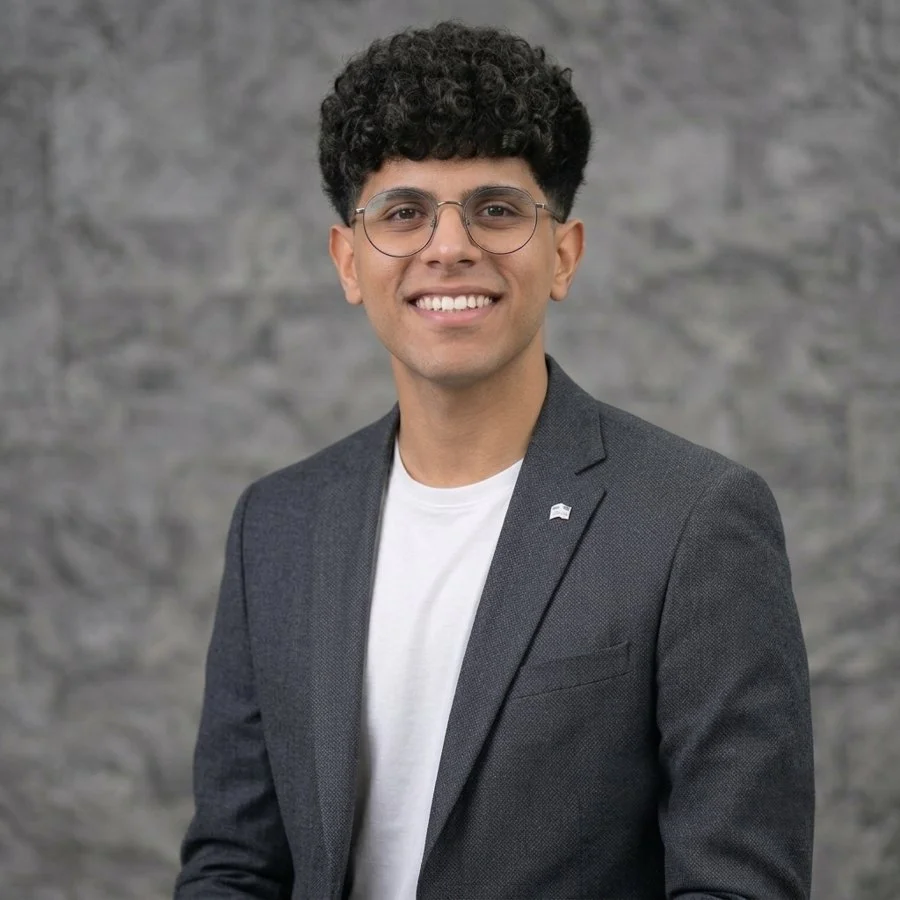
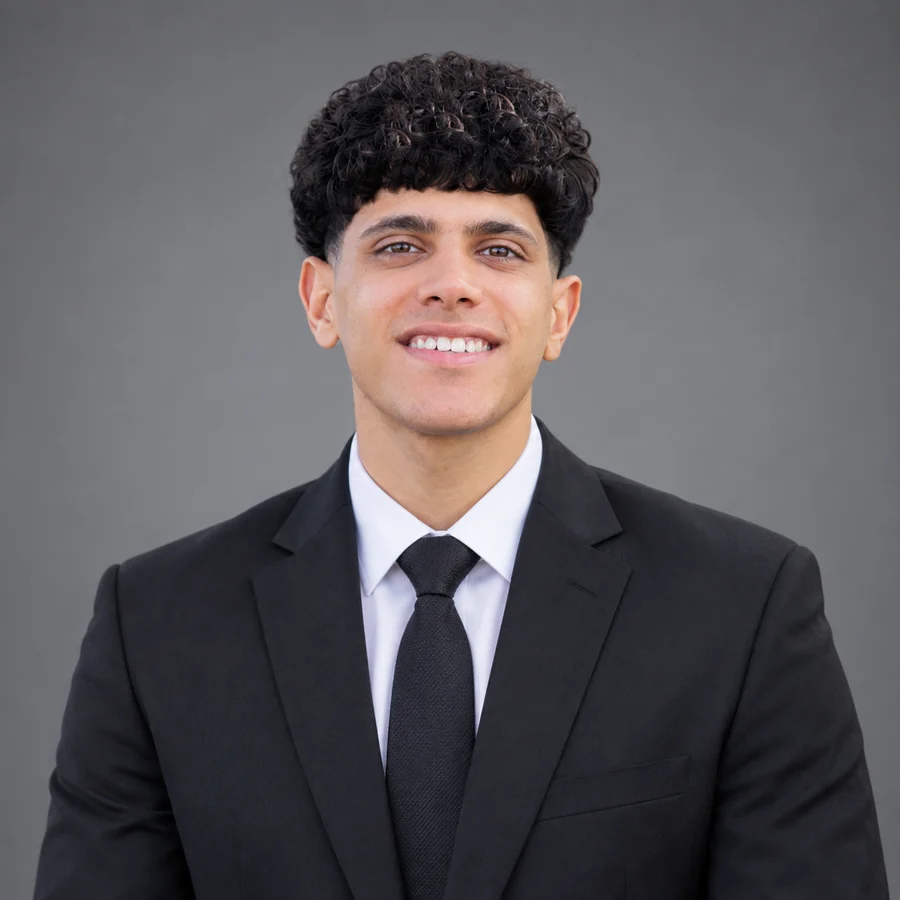
Add files via upload

diff --git a/js/script.js b/js/script.js
@@ -25,6 +25,15 @@ var FORM_ENDPOINT = 'https://formsubmit.co/ajax/aonyadel1@gmail.com';
     close: '<path d="M18 6L6 18M6 6l12 12"/>',
     globe: '<circle cx="12" cy="12" r="10"/><line x1="2" y1="12" x2="22" y2="12"/><path d="M12 2a15.3 15.3 0 0 1 4 10 15.3 15.3 0 0 1-4 10 15.3 15.3 0 0 1-4-10 15.3 15.3 0 0 1 4-10z"/>',
     github: '<path d="M9 19c-5 1.5-5-2.5-7-3m14 6v-3.87a3.37 3.37 0 0 0-.94-2.61c3.14-.35 6.44-1.54 6.44-7A5.44 5.44 0 0 0 20 4.77 5.07 5.07 0 0 0 19.91 1S18.73.65 16 2.48a13.38 13.38 0 0 0-7 0C6.27.65 5.09 1 5.09 1A5.07 5.07 0 0 0 5 4.77a5.44 5.44 0 0 0-1.5 3.78c0 5.42 3.3 6.61 6.44 7A3.37 3.37 0 0 0 9 18.13V22"/>',
+    message: '<path d="M21 11.5a8.38 8.38 0 0 1-.9 3.8 8.5 8.5 0 0 1-7.6 4.7 8.38 8.38 0 0 1-3.8-.9L3 21l1.9-5.7a8.38 8.38 0 0 1-.9-3.8 8.5 8.5 0 0 1 4.7-7.6 8.38 8.38 0 0 1 3.8-.9h.5a8.48 8.48 0 0 1 8 8v.5z"/>',
+    clock: '<circle cx="12" cy="12" r="10"/><polyline points="12 6 12 12 16 14"/>',
+    flag: '<path d="M4 15s1-1 4-1 5 2 8 2 4-1 4-1V3s-1 1-4 1-5-2-8-2-4 1-4 1z"/><line x1="4" y1="22" x2="4" y2="15"/>',
+    shield: '<path d="M12 22s8-4 8-10V5l-8-3-8 3v7c0 6 8 10 8 10z"/>',
+    briefcase: '<rect x="2" y="7" width="20" height="14" rx="2"/><path d="M16 21V5a2 2 0 0 0-2-2h-4a2 2 0 0 0-2 2v16"/>',
+    refresh: '<polyline points="23 4 23 10 17 10"/><polyline points="1 20 1 14 7 14"/><path d="M3.51 9a9 9 0 0 1 14.85-3.36L23 10M1 14l4.64 4.36A9 9 0 0 0 20.49 15"/>',
+    trend: '<polyline points="23 6 13.5 15.5 8.5 10.5 1 18"/><polyline points="17 6 23 6 23 12"/>',
+    star: '<polygon points="12 2 15.09 8.26 22 9.27 17 14.14 18.18 21.02 12 17.77 5.82 21.02 7 14.14 2 9.27 8.91 8.26 12 2"/>',
+    check: '<path d="M22 11.08V12a10 10 0 1 1-5.93-9.14"/><polyline points="22 4 12 14.01 9 11.01"/>',
     file: '<path d="M14 2H6a2 2 0 0 0-2 2v16a2 2 0 0 0 2 2h12a2 2 0 0 0 2-2V8z"/><polyline points="14 2 14 8 20 8"/>',
     grid: '<rect x="3" y="3" width="18" height="18" rx="2"/><path d="M3 9h18M3 15h18M9 3v18M15 3v18"/>',
     monitor: '<rect x="2" y="3" width="20" height="14" rx="2"/><path d="M8 21h8M12 17v4"/>',
@@ -57,14 +66,9 @@ var FORM_ENDPOINT = 'https://formsubmit.co/ajax/aonyadel1@gmail.com';
     icon(themeBtn.querySelector('svg'), t === 'dark' ? 'sun' : 'moon');
     themeBtn.setAttribute('aria-label', t === 'dark' ? 'Switch to light mode' : 'Switch to dark mode');
   }
-  setTheme(root.dataset.theme || 'light', false);
+  setTheme(root.dataset.theme || 'dark', false);
   themeBtn.addEventListener('click', function () {
     setTheme(root.dataset.theme === 'dark' ? 'light' : 'dark', true);
-  });
-  matchMedia('(prefers-color-scheme: dark)').addEventListener('change', function (e) {
-    var saved = null;
-    try { saved = localStorage.getItem('theme'); } catch (err) {}
-    if (!saved) setTheme(e.matches ? 'dark' : 'light', false);
   });
 
   // ----- Mobile menu -----
@@ -90,11 +94,11 @@ var FORM_ENDPOINT = 'https://formsubmit.co/ajax/aonyadel1@gmail.com';
       if (location.protocol === 'file:') {
         location.href = 'mailto:aonyadel1@gmail.com?subject=' + encodeURIComponent('Portfolio message from ' + d.get('name')) +
           '&body=' + encodeURIComponent('Name: ' + d.get('name') + '\nEmail: ' + d.get('email') + '\n\n' + d.get('message'));
-        status.textContent = 'Opening your email app. The form sends directly once the site is online.';
+        status.textContent = 'جارٍ فتح تطبيق البريد. يعمل النموذج مباشرة بعد نشر الموقع.';
         return;
       }
       btn.disabled = true;
-      status.textContent = 'Sending...';
+      status.textContent = 'جارٍ إرسال رسالتك...';
       fetch(FORM_ENDPOINT, { method: 'POST', body: d, headers: { Accept: 'application/json' } })
         .then(function (r) {
           return r.json().catch(function () { return {}; }).then(function (res) {
@@ -103,10 +107,10 @@ var FORM_ENDPOINT = 'https://formsubmit.co/ajax/aonyadel1@gmail.com';
         })
         .then(function () {
           form.reset();
-          status.textContent = 'Thank you! Your message has been sent.';
+          status.textContent = 'شكراً لك! تم إرسال رسالتك بنجاح، وسأرد عليك في أقرب وقت.';
         })
         .catch(function () {
-          status.textContent = 'The message could not be sent. Please email me directly at aonyadel1@gmail.com.';
+          status.textContent = 'تعذّر إرسال الرسالة. من فضلك راسلني مباشرة على aonyadel1@gmail.com.';
         })
         .then(function () { btn.disabled = false; });
     });
@@ -160,7 +164,7 @@ var FORM_ENDPOINT = 'https://formsubmit.co/ajax/aonyadel1@gmail.com';
         setTimeout(function () { el.classList.remove('reveal', 'in'); el.style.transitionDelay = ''; }, 900);
       });
     }, { threshold: 0.12 });
-    document.querySelectorAll('.card,.skill,.project,.filters,.section>h2').forEach(function (el) {
+    document.querySelectorAll('.card,.skill,.soft-card,.project,.filters,.section>h2').forEach(function (el) {
       el.classList.add('reveal'); io.observe(el);
     });
   }

diff --git a/skills.html b/skills.html
@@ -15,7 +15,7 @@
 <link rel="preconnect" href="https://fonts.googleapis.com"><link rel="preconnect" href="https://fonts.gstatic.com" crossorigin>
 <link href="https://fonts.googleapis.com/css2?family=Poppins:wght@400;500;600;700;800&display=swap" rel="stylesheet">
 <link rel="stylesheet" href="css/style.css">
-<script>var d=document.documentElement,t=null;try{t=localStorage.getItem('theme')}catch(e){}d.dataset.theme=t||(matchMedia('(prefers-color-scheme: dark)').matches?'dark':'light');try{if(!sessionStorage.getItem('intro'))d.classList.add('intro')}catch(e){}</script>
+<script>var d=document.documentElement,t=null;try{t=localStorage.getItem('theme')}catch(e){}d.dataset.theme=t||'dark';try{if(!sessionStorage.getItem('intro'))d.classList.add('intro')}catch(e){}</script>
 </head>
 <body>
 <div class="splash" aria-hidden="true"><div class="splash-in"><div class="splash-logo"><i class="rip"></i><i class="rip r2"></i><span>AA</span></div><p class="splash-name"><span style="--i:0">A</span><span style="--i:1">o</span><span style="--i:2">n</span><span style="--i:3">y</span><span class="sp"></span><span style="--i:5">A</span><span style="--i:6">d</span><span style="--i:7">e</span><span style="--i:8">l</span></p><p class="splash-sub">Business Information Systems Student</p><div class="splash-bar"><i id="bar"></i></div><p class="splash-pct"><b id="pct">0</b>%</p></div><p class="splash-foot">Assiut, Egypt</p></div>
@@ -46,15 +46,19 @@
 <li class="skill"><div class="ico"><svg data-icon="monitor"></svg></div><div><span class="name">Microsoft PowerPoint</span></div></li>
 <li class="skill"><div class="ico"><svg data-icon="github"></svg></div><div><span class="name">GitHub Pages</span></div></li>
 </ul></section>
-<section class="container section" style="padding-top:24px"><h2>Currently learning</h2><ul class="skills">
-<li class="skill"><div class="ico"><svg data-icon="book"></svg></div><div><span class="name">React.js</span><small>In progress</small></div></li>
+<section class="container section" style="padding-top:24px"><h2>Libraries</h2><ul class="skills">
+<li class="skill"><div class="ico"><svg data-icon="book"></svg></div><div><span class="name">React.js</span></div></li>
 </ul></section>
 <section class="container section" style="padding-top:24px"><h2>Working skills</h2><ul class="skills">
 <li class="skill"><div class="ico"><svg data-icon="target"></svg></div><div><span class="name">Logical Problem Solving</span></div></li>
 <li class="skill"><div class="ico"><svg data-icon="chart"></svg></div><div><span class="name">Technology-based Presentations</span></div></li>
 </ul></section>
 <section class="container section"><h2>Soft skills</h2>
-<div class="chips"><span class="chip">Communication</span><span class="chip">Teamwork</span><span class="chip">Time Management</span><span class="chip">Responsibility</span><span class="chip">Adaptability</span><span class="chip">Quick Learning</span><span class="chip">Leadership</span><span class="chip">Self-Confidence</span><span class="chip">Professional Behavior</span><span class="chip">Commitment</span></div></section>
+<div class="soft">
+<article class="soft-card" style="--c:var(--c2)"><h3>Interpersonal</h3><ul><li><span class="ico"><svg data-icon="message"></svg></span>Communication</li><li><span class="ico"><svg data-icon="users"></svg></span>Teamwork</li><li><span class="ico"><svg data-icon="flag"></svg></span>Leadership</li></ul></article>
+<article class="soft-card" style="--c:var(--c3)"><h3>Work ethic</h3><ul><li><span class="ico"><svg data-icon="shield"></svg></span>Responsibility</li><li><span class="ico"><svg data-icon="check"></svg></span>Commitment</li><li><span class="ico"><svg data-icon="clock"></svg></span>Time Management</li><li><span class="ico"><svg data-icon="briefcase"></svg></span>Professional Behavior</li></ul></article>
+<article class="soft-card" style="--c:var(--c4)"><h3>Personal growth</h3><ul><li><span class="ico"><svg data-icon="refresh"></svg></span>Adaptability</li><li><span class="ico"><svg data-icon="trend"></svg></span>Quick Learning</li><li><span class="ico"><svg data-icon="star"></svg></span>Self-Confidence</li></ul></article>
+</div></section>
 </main>
 <footer class="site-footer"><div class="container">&copy; 2026 Aony Adel. Business Information Systems student, Assiut, Egypt.</div></footer>
 <script src="js/script.js"></script>

diff --git a/index.html b/index.html
@@ -15,7 +15,7 @@
 <link rel="preconnect" href="https://fonts.googleapis.com"><link rel="preconnect" href="https://fonts.gstatic.com" crossorigin>
 <link href="https://fonts.googleapis.com/css2?family=Poppins:wght@400;500;600;700;800&display=swap" rel="stylesheet">
 <link rel="stylesheet" href="css/style.css">
-<script>var d=document.documentElement,t=null;try{t=localStorage.getItem('theme')}catch(e){}d.dataset.theme=t||(matchMedia('(prefers-color-scheme: dark)').matches?'dark':'light');try{if(!sessionStorage.getItem('intro'))d.classList.add('intro')}catch(e){}</script>
+<script>var d=document.documentElement,t=null;try{t=localStorage.getItem('theme')}catch(e){}d.dataset.theme=t||'dark';try{if(!sessionStorage.getItem('intro'))d.classList.add('intro')}catch(e){}</script>
 </head>
 <body>
 <div class="splash" aria-hidden="true"><div class="splash-in"><div class="splash-logo"><i class="rip"></i><i class="rip r2"></i><span>AA</span></div><p class="splash-name"><span style="--i:0">A</span><span style="--i:1">o</span><span style="--i:2">n</span><span style="--i:3">y</span><span class="sp"></span><span style="--i:5">A</span><span style="--i:6">d</span><span style="--i:7">e</span><span style="--i:8">l</span></p><p class="splash-sub">Business Information Systems Student</p><div class="splash-bar"><i id="bar"></i></div><p class="splash-pct"><b id="pct">0</b>%</p></div><p class="splash-foot">Assiut, Egypt</p></div>
@@ -31,7 +31,7 @@
 <div>
 <h1 aria-label="Hello, I am Aony Adel"><span class="hello">Hello, I am</span><span class="typed" id="typed">Aony Adel</span></h1>
 <p class="role">Full Stack Developer</p>
-<p class="lead">A Business Information Systems student from Assiut, Egypt. I build responsive websites with HTML, CSS and JavaScript, and I'm learning back-end fundamentals and data analysis.</p>
+<p class="lead">A Business Information Systems student from Assiut, Egypt. I build responsive websites with HTML, CSS and JavaScript, with an interest in back-end development and data analysis.</p>
 <blockquote class="quote">&ldquo;Learning and consistency are the keys to success.&rdquo;</blockquote>
 <div class="actions"><a class="btn btn-primary" href="goals.html">See my goals</a><a class="btn btn-ghost" href="contact.html">Get in touch</a></div>
 </div>
@@ -71,15 +71,6 @@
 </div>
 </section>
 
-<section class="container section split">
-<h2>Beyond the classroom</h2>
-<div>
-<p>Chess taught me to think a few moves ahead, and I try to bring that habit to how I study and solve problems.</p>
-<div class="chips"><span class="chip">Chess and strategic thinking</span><span class="chip">Following sports</span><span class="chip">Reading leadership articles</span><span class="chip">Self-development</span></div>
-<p style="margin-top:26px">Areas I want to explore further:</p>
-<div class="chips"><span class="chip">Financial and administrative sciences</span><span class="chip">Data analysis</span><span class="chip">Strategic analysis</span><span class="chip">Front-end development</span><span class="chip">Back-end development</span></div>
-</div>
-</section>
 </main>
 <footer class="site-footer"><div class="container">&copy; 2026 Aony Adel. Business Information Systems student, Assiut, Egypt.</div></footer>
 <script src="js/script.js"></script>

diff --git a/projects.html b/projects.html
@@ -15,7 +15,7 @@
 <link rel="preconnect" href="https://fonts.googleapis.com"><link rel="preconnect" href="https://fonts.gstatic.com" crossorigin>
 <link href="https://fonts.googleapis.com/css2?family=Poppins:wght@400;500;600;700;800&display=swap" rel="stylesheet">
 <link rel="stylesheet" href="css/style.css">
-<script>var d=document.documentElement,t=null;try{t=localStorage.getItem('theme')}catch(e){}d.dataset.theme=t||(matchMedia('(prefers-color-scheme: dark)').matches?'dark':'light');try{if(!sessionStorage.getItem('intro'))d.classList.add('intro')}catch(e){}</script>
+<script>var d=document.documentElement,t=null;try{t=localStorage.getItem('theme')}catch(e){}d.dataset.theme=t||'dark';try{if(!sessionStorage.getItem('intro'))d.classList.add('intro')}catch(e){}</script>
 </head>
 <body>
 <div class="splash" aria-hidden="true"><div class="splash-in"><div class="splash-logo"><i class="rip"></i><i class="rip r2"></i><span>AA</span></div><p class="splash-name"><span style="--i:0">A</span><span style="--i:1">o</span><span style="--i:2">n</span><span style="--i:3">y</span><span class="sp"></span><span style="--i:5">A</span><span style="--i:6">d</span><span style="--i:7">e</span><span style="--i:8">l</span></p><p class="splash-sub">Business Information Systems Student</p><div class="splash-bar"><i id="bar"></i></div><p class="splash-pct"><b id="pct">0</b>%</p></div><p class="splash-foot">Assiut, Egypt</p></div>
@@ -29,7 +29,6 @@
 <main class="orbs">
 <section class="container page-head">
 <h1>Projects</h1>
-<p class="lead">Things I've built while learning. More projects will be added as I grow.</p>
 </section>
 <section class="container section" style="padding-top:8px">
 <div class="filters" role="group" aria-label="Filter projects">
@@ -45,11 +44,7 @@
 <div class="mock-base"></div>
 </div>
 <h3>Aony Adel - Personal Portfolio</h3>
-<p>A personal website showcasing my skills, experience, and software projects, designed to present my professional identity and facilitate communication with clients and recruiters.</p>
-<dl class="facts">
-<div><dt>The problem</dt><dd>I needed one clear place to present my skills, goals and courses to recruiters and clients.</dd></div>
-<div><dt>My role</dt><dd>Planned the content and structure, designed the interface, and built every page with HTML, CSS and JavaScript.</dd></div>
-</dl>
+<p>A personal website showcasing my skills and projects, built to present my professional identity to clients and recruiters.</p>
 <div class="chips tech"><span class="chip">HTML5</span><span class="chip">CSS3</span><span class="chip">JavaScript</span></div>
 <div class="actions">
 <a class="btn btn-primary" href="https://aonyadel1-gif.github.io/portfolio-Aony-Adel-Fahim/" target="_blank" rel="noopener noreferrer"><svg data-icon="globe"></svg>Live Demo</a>

diff --git a/contact.html b/contact.html
@@ -15,7 +15,7 @@
 <link rel="preconnect" href="https://fonts.googleapis.com"><link rel="preconnect" href="https://fonts.gstatic.com" crossorigin>
 <link href="https://fonts.googleapis.com/css2?family=Poppins:wght@400;500;600;700;800&display=swap" rel="stylesheet">
 <link rel="stylesheet" href="css/style.css">
-<script>var d=document.documentElement,t=null;try{t=localStorage.getItem('theme')}catch(e){}d.dataset.theme=t||(matchMedia('(prefers-color-scheme: dark)').matches?'dark':'light');try{if(!sessionStorage.getItem('intro'))d.classList.add('intro')}catch(e){}</script>
+<script>var d=document.documentElement,t=null;try{t=localStorage.getItem('theme')}catch(e){}d.dataset.theme=t||'dark';try{if(!sessionStorage.getItem('intro'))d.classList.add('intro')}catch(e){}</script>
 </head>
 <body>
 <div class="splash" aria-hidden="true"><div class="splash-in"><div class="splash-logo"><i class="rip"></i><i class="rip r2"></i><span>AA</span></div><p class="splash-name"><span style="--i:0">A</span><span style="--i:1">o</span><span style="--i:2">n</span><span style="--i:3">y</span><span class="sp"></span><span style="--i:5">A</span><span style="--i:6">d</span><span style="--i:7">e</span><span style="--i:8">l</span></p><p class="splash-sub">Business Information Systems Student</p><div class="splash-bar"><i id="bar"></i></div><p class="splash-pct"><b id="pct">0</b>%</p></div><p class="splash-foot">Assiut, Egypt</p></div>
@@ -49,7 +49,7 @@
 <label for="message">Message</label><textarea id="message" name="message" required></textarea>
 <input type="hidden" name="_captcha" value="false"><input type="hidden" name="_template" value="table"><input type="hidden" name="_subject" value="New message from your portfolio"><input type="text" name="_honey" tabindex="-1" autocomplete="off" style="display:none" aria-hidden="true">
 <button class="btn btn-primary" type="submit">Send Message</button>
-<p id="form-status" role="status" aria-live="polite"></p>
+<p id="form-status" dir="auto" role="status" aria-live="polite"></p>
 </form>
 </section>
 <section class="container section" style="padding-top:0">

diff --git a/css/style.css b/css/style.css
@@ -369,3 +369,26 @@ html:not(.intro) .page-head h1::after,html.intro-out .page-head h1::after{animat
 .page-head::after{animation:float 5s ease-in-out infinite}
 .orbs::before{animation:float 9s ease-in-out infinite}
 .orbs::after{animation:float 11s -4s ease-in-out infinite}
+
+/* ===== Soft skills ===== */
+.soft{display:grid;gap:20px;margin-top:20px;grid-template-columns:repeat(auto-fit,minmax(min(100%,290px),1fr))}
+.soft-card{position:relative;padding:26px 22px 20px;border-radius:20px;background:color-mix(in srgb,var(--surface) 60%,transparent);-webkit-backdrop-filter:blur(14px);backdrop-filter:blur(14px);border:1px solid color-mix(in srgb,var(--c) 35%,var(--line));box-shadow:var(--shadow);transition:transform .3s,box-shadow .3s}
+.soft-card::after{content:"";position:absolute;left:24px;right:24px;top:0;height:3px;border-radius:0 0 4px 4px;background:var(--c)}
+.soft-card:hover{transform:translateY(-6px);box-shadow:0 16px 40px color-mix(in srgb,var(--c) 26%,transparent)}
+.soft-card h3{margin-bottom:14px;color:var(--c)}
+.soft-card ul{list-style:none;padding:0;display:grid;gap:6px}
+.soft-card li{display:flex;align-items:center;gap:12px;padding:9px 10px;border-radius:12px;font-weight:600;transition:background .2s,transform .2s}
+.soft-card li:hover{background:color-mix(in srgb,var(--c) 13%,transparent);transform:translateX(4px)}
+.soft-card .ico{flex:none;width:38px;height:38px;margin:0;border-radius:50%}
+.soft-card .ico svg{width:18px;height:18px}
+
+/* ===== Projects: compact card ===== */
+.projects{grid-template-columns:repeat(auto-fill,minmax(min(100%,270px),310px))}
+.project{padding:14px;border-radius:18px}
+.project h3{margin-top:14px;font-size:1.05rem}
+.project p{margin-top:6px;font-size:.88rem}
+.project .tech{margin:10px 0 14px}
+.project .tech .chip{padding:4px 10px;font-size:.78rem}
+.project .actions{gap:8px}
+.project .actions .btn{flex:1;justify-content:center;padding:9px 12px;min-height:42px;font-size:.88rem}
+.project .actions .btn svg{width:1.05em;height:1.05em}

diff --git a/courses.html b/courses.html
@@ -15,7 +15,7 @@
 <link rel="preconnect" href="https://fonts.googleapis.com"><link rel="preconnect" href="https://fonts.gstatic.com" crossorigin>
 <link href="https://fonts.googleapis.com/css2?family=Poppins:wght@400;500;600;700;800&display=swap" rel="stylesheet">
 <link rel="stylesheet" href="css/style.css">
-<script>var d=document.documentElement,t=null;try{t=localStorage.getItem('theme')}catch(e){}d.dataset.theme=t||(matchMedia('(prefers-color-scheme: dark)').matches?'dark':'light');try{if(!sessionStorage.getItem('intro'))d.classList.add('intro')}catch(e){}</script>
+<script>var d=document.documentElement,t=null;try{t=localStorage.getItem('theme')}catch(e){}d.dataset.theme=t||'dark';try{if(!sessionStorage.getItem('intro'))d.classList.add('intro')}catch(e){}</script>
 </head>
 <body>
 <div class="splash" aria-hidden="true"><div class="splash-in"><div class="splash-logo"><i class="rip"></i><i class="rip r2"></i><span>AA</span></div><p class="splash-name"><span style="--i:0">A</span><span style="--i:1">o</span><span style="--i:2">n</span><span style="--i:3">y</span><span class="sp"></span><span style="--i:5">A</span><span style="--i:6">d</span><span style="--i:7">e</span><span style="--i:8">l</span></p><p class="splash-sub">Business Information Systems Student</p><div class="splash-bar"><i id="bar"></i></div><p class="splash-pct"><b id="pct">0</b>%</p></div><p class="splash-foot">Assiut, Egypt</p></div>

diff --git a/goals.html b/goals.html
@@ -15,7 +15,7 @@
 <link rel="preconnect" href="https://fonts.googleapis.com"><link rel="preconnect" href="https://fonts.gstatic.com" crossorigin>
 <link href="https://fonts.googleapis.com/css2?family=Poppins:wght@400;500;600;700;800&display=swap" rel="stylesheet">
 <link rel="stylesheet" href="css/style.css">
-<script>var d=document.documentElement,t=null;try{t=localStorage.getItem('theme')}catch(e){}d.dataset.theme=t||(matchMedia('(prefers-color-scheme: dark)').matches?'dark':'light');try{if(!sessionStorage.getItem('intro'))d.classList.add('intro')}catch(e){}</script>
+<script>var d=document.documentElement,t=null;try{t=localStorage.getItem('theme')}catch(e){}d.dataset.theme=t||'dark';try{if(!sessionStorage.getItem('intro'))d.classList.add('intro')}catch(e){}</script>
 </head>
 <body>
 <div class="splash" aria-hidden="true"><div class="splash-in"><div class="splash-logo"><i class="rip"></i><i class="rip r2"></i><span>AA</span></div><p class="splash-name"><span style="--i:0">A</span><span style="--i:1">o</span><span style="--i:2">n</span><span style="--i:3">y</span><span class="sp"></span><span style="--i:5">A</span><span style="--i:6">d</span><span style="--i:7">e</span><span style="--i:8">l</span></p><p class="splash-sub">Business Information Systems Student</p><div class="splash-bar"><i id="bar"></i></div><p class="splash-pct"><b id="pct">0</b>%</p></div><p class="splash-foot">Assiut, Egypt</p></div>
